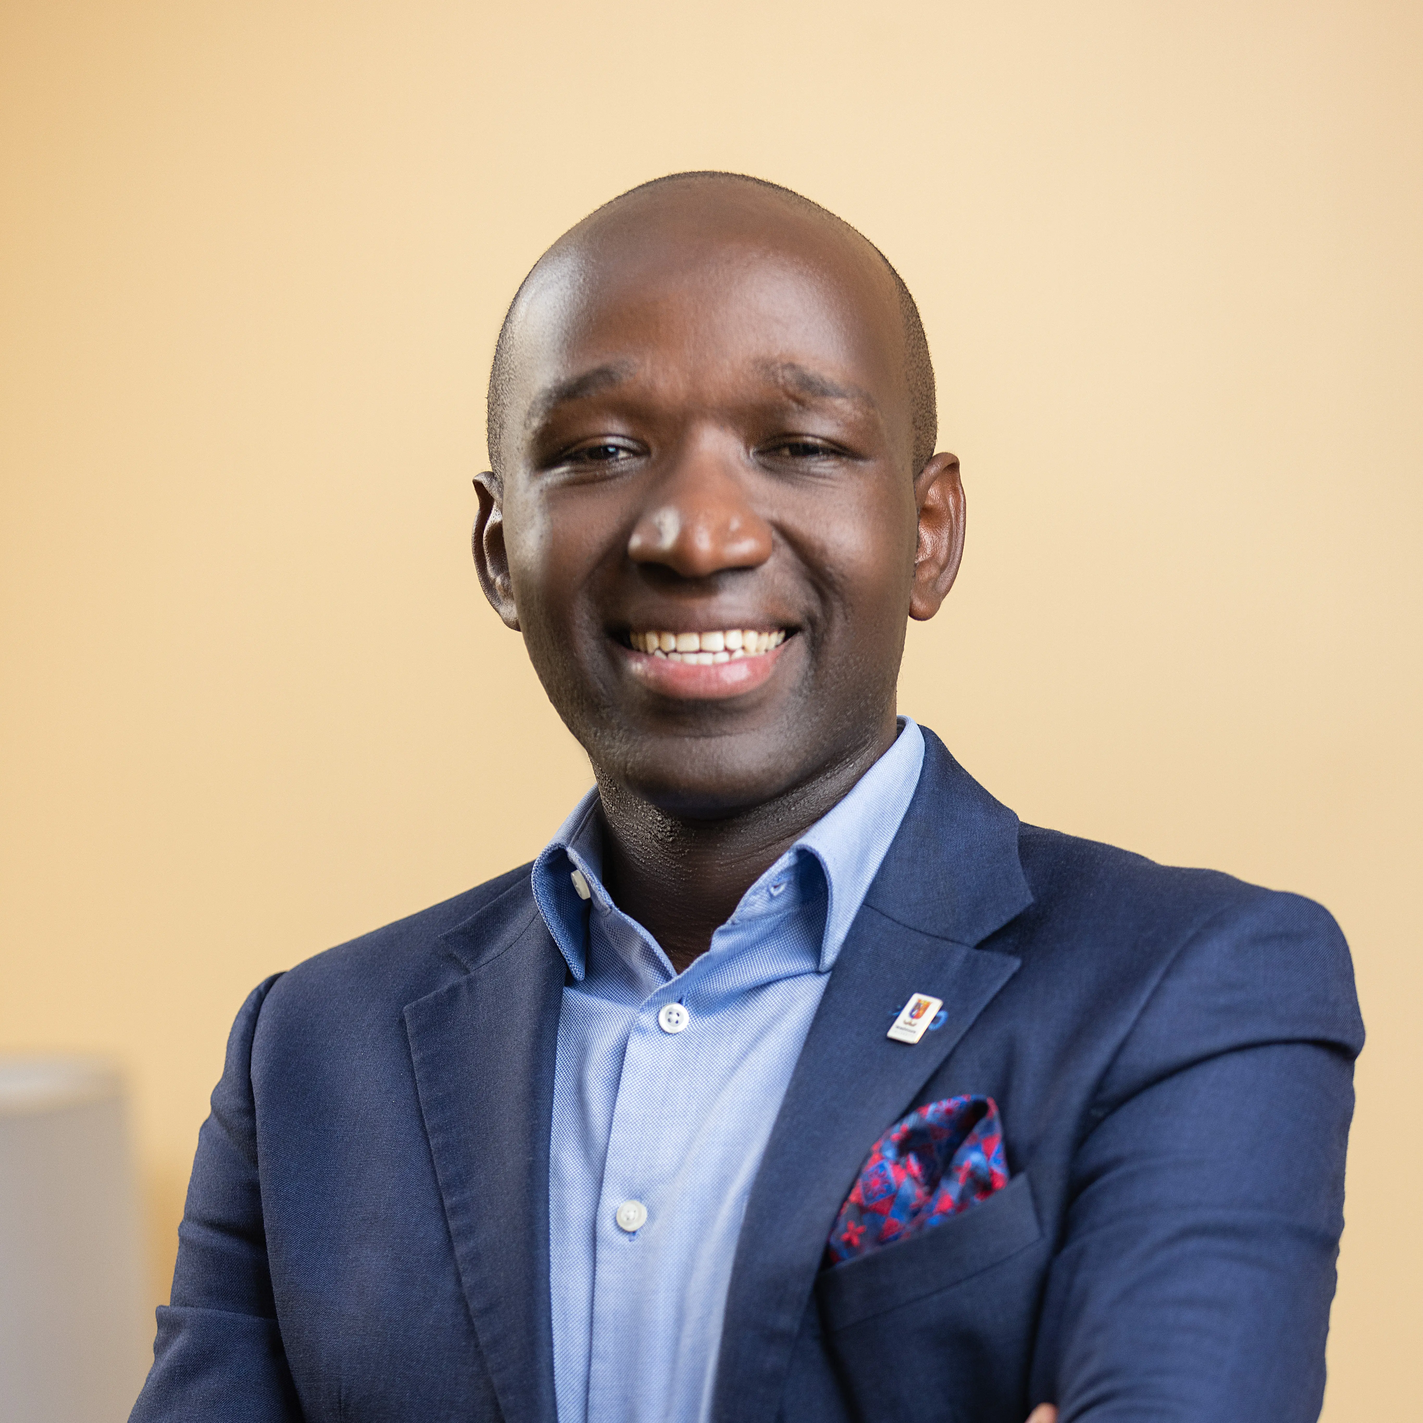
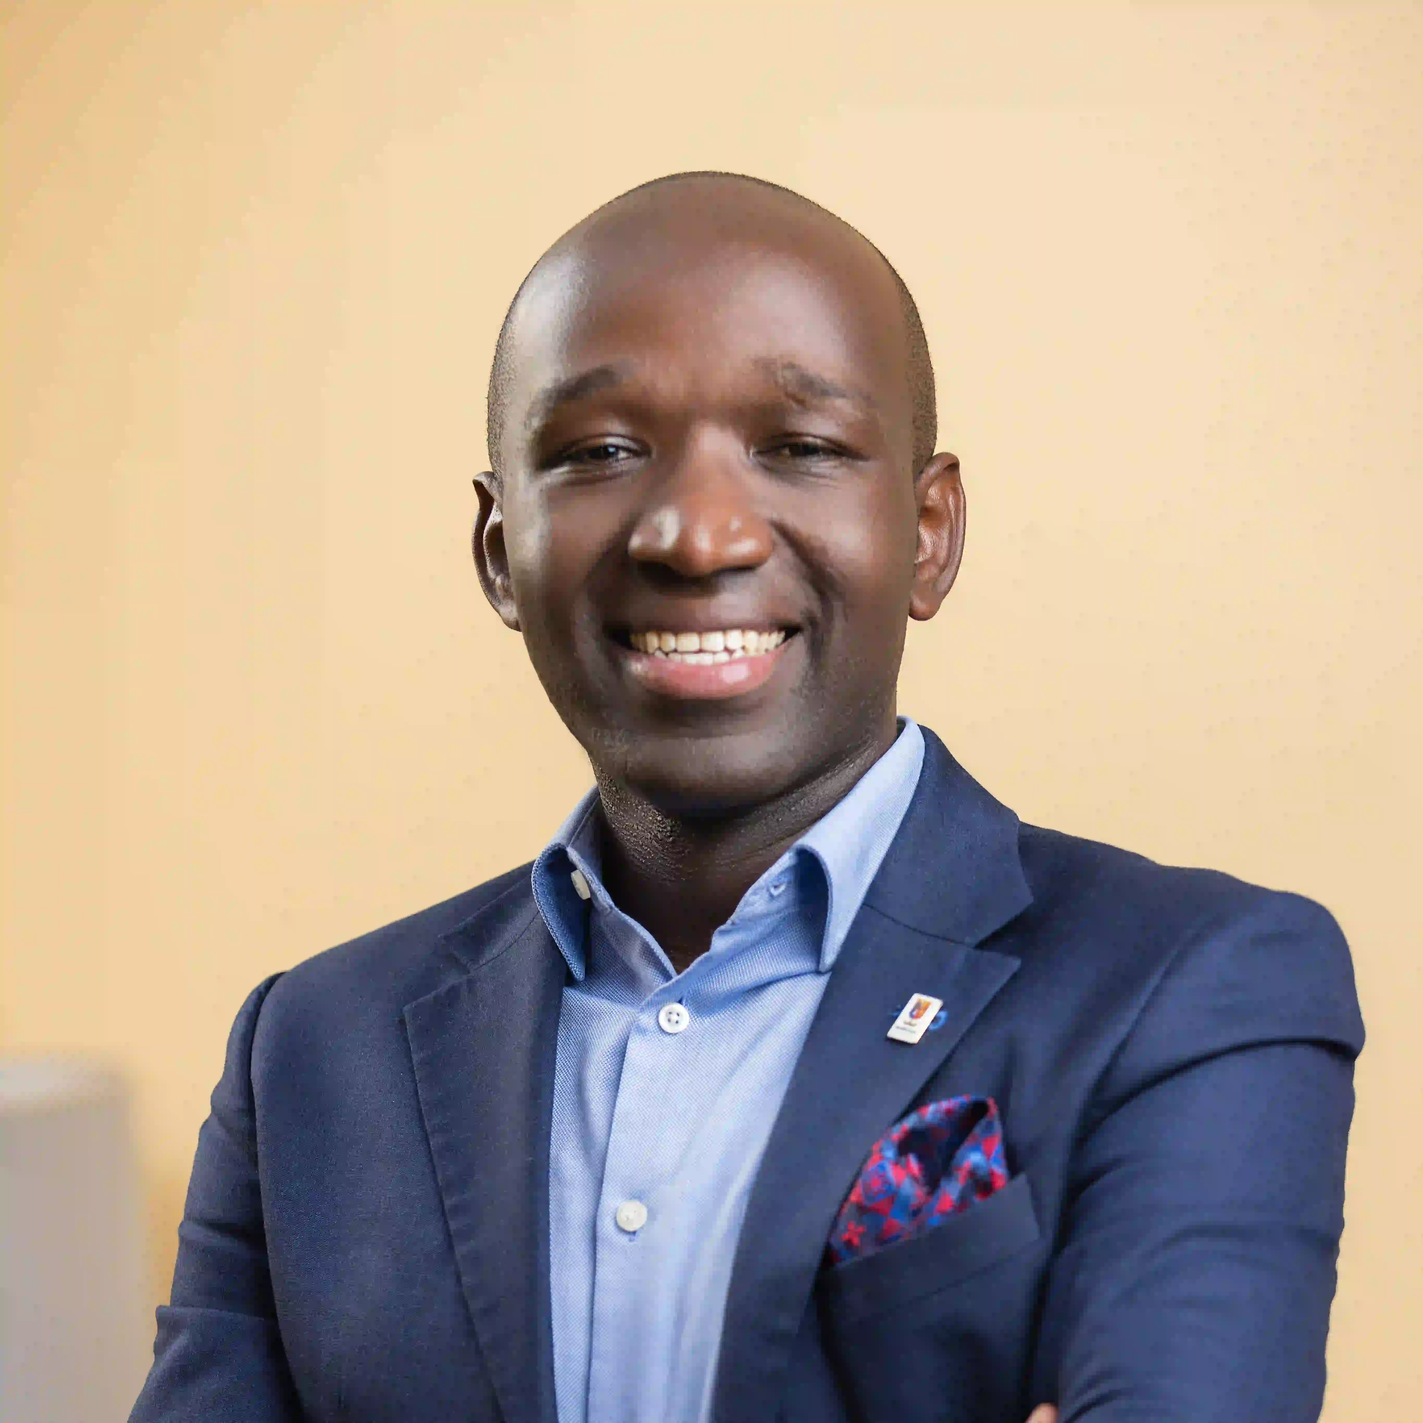
Add speakers

diff --git a/client/src/data/people.ts b/client/src/data/people.ts
@@ -22,7 +22,30 @@ const people = [
 		category: ["moderator"],
 	},
 	{
+		name: "Lyela Mutisya",
+		bio: [
+			"Lyela Mutisya graduated from Lewis University in 2017 with a B.S. in Aviation Administration and a minor in Unmanned Aircraft Systems (UAS). In 2015 during Lyela's junior year in college she took an elective that sparked her love for Uncrewed Aircraft Systems (UAS). As a result of her newfound passion for drones Lyela ended up minoring in UAS.",
+			"Over the years Lyela has been featured in several publications both local and international. She has also participated in several speaking engagements including the 2016 Drone World Expo's Women in Drones Panel.",
+			"In 2021 Lyela joined LifeBank as the Drone Pilot Lead. During her time at LifeBank Lyela learned how to fly Vertical Takeoff & Landing (VTOL) drones. She underwent trainings both in Germany and London. Lyela assisted LifeBank with establishing drone operations for last mile medical delivery in Ethiopia.",
+			"She has vast experience in BVLOS operations from assessing suitable areas for BVLOS operations, preflight planning, risk assessment, flight operations, cargo loading and unloading, communication, and post-flight procedures.",
+			"She is currently on the forefront of using drone technology for last mile medical delivery here in Kenya. As an entrepreneur Lyela's goal is to not only inspire young women and men but to empower them as well through drone education and employment.",
+		],
+		occupation: {
+			position: "Drone Expert",
+			pow: null,
+			image: null,
+		},
+		image: image.people.speakers.lyelaMutisya,
+		contact: {
+			email: "lyela.mutisya@gmail.com",
+			phone: null,
+			socials: null,
+		},
+		category: ["speaker"],
+	},
+	{
 		name: "Michael Zimba",
+		nationality: "Malawi",
 		bio: [
 			"Michael Zimba is the Executive Dean of the Malawi Institute of Technology, Lead of the Center for Artificial Intelligence and STEAM (CAIST) and Associate Professor of Artificial Intelligence and Data Science at the Malawi University of Science and Technology.",
 			"He is an Oxford University Press' Unit Editor for AI in Society Series. He is an EDSAFE AI Catalyst Fellow on Safe AI in Education under the USA's EDSAFE AI Alliance. He is an African Union Commission's Contributing Expert to STISA, and African Union High Level Panel on Emerging Technologies' (APET's) Contributing Expert on AI.",
@@ -42,28 +65,6 @@ const people = [
 		category: ["speaker"],
 	},
 	{
-		name: "Lyela Mutisya",
-		bio: [
-			"Lyela Mutisya graduated from Lewis University in 2017 with a B.S. in Aviation Administration and a minor in Unmanned Aircraft Systems (UAS). In 2015 during Lyela's junior year in college she took an elective that sparked her love for Uncrewed Aircraft Systems (UAS). As a result of her newfound passion for drones Lyela ended up minoring in UAS.",
-			"Over the years Lyela has been featured in several publications both local and international. She has also participated in several speaking engagements including the 2016 Drone World Expo's Women in Drones Panel.",
-			"In 2021 Lyela joined LifeBank as the Drone Pilot Lead. During her time at LifeBank Lyela learned how to fly Vertical Takeoff & Landing (VTOL) drones. She underwent trainings both in Germany and London. Lyela assisted LifeBank with establishing drone operations for last mile medical delivery in Ethiopia.",
-			"She has vast experience in BVLOS operations from assessing suitable areas for BVLOS operations, preflight planning, risk assessment, flight operations, cargo loading and unloading, communication, and post-flight procedures.",
-			"She is currently on the forefront of using drone technology for last mile medical delivery here in Kenya. As an entrepreneur Lyela's goal is to not only inspire young women and men but to empower them as well through drone education and employment.",
-		],
-		occupation: {
-			position: null,
-			pow: null,
-			image: null,
-		},
-		image: image.people.speakers.lyelaMutisya,
-		contact: {
-			email: "lyela.mutisya@gmail.com",
-			phone: null,
-			socials: null,
-		},
-		category: ["speaker"],
-	},
-	{
 		name: "Mwangi Kirubi",
 		bio: [
 			"Mwangi Kirubi aka Mwarv has been telling stories through photography and film for over 20 years. Starting off as an advertising copywriter, Mwarv transitioned into creating photo and video documentaries for clients across the globe.",
@@ -79,23 +80,25 @@ const people = [
 		category: ["speaker"],
 	},
 	{
-		name: "George Ogada",
+		name: "Sahil Patel",
+		nationality: "SA",
 		bio: [
-			"George Ogada specializes in Planning, Program Management, and Providing Crucial Support to startups and innovation initiatives. With a wealth of experience in the FMCG planning space, George has developed the skills needed to navigate the intricate landscape of program management. His skills extend beyond traditional planning, encompassing a keen focus on startup ecosystems and fostering innovation.",
-			"George's expertise lies in developing and implementing strategies that drive both operational efficiency and creative problem-solving. His commitment to the realms of program management, coupled with a passion for people, supporting startups and fostering innovation, positions him as a valuable asset capable of steering projects toward success in dynamic and evolving environments.",
+			"Sahil Patel is a Data Scientist at Matogen Applied Insights - South Africa, where he harnesses artificial intelligence to enhance business operations and efficiency. He earned his Master of Science in Computer Science, with a specialization in Artificial Intelligence, from the University of Nottingham in 2022, graduating with Distinction.",
+			"At Matogen Applied Insights since December 2022, Sahil has been instrumental in automating business processes and developing machine learning models that provide valuable insights across various sectors, including banking, telecommunications, and agriculture.",
+			"As a participant at the AI conference in Nairobi, Sahil aims to share practical approaches to data monetization and discuss AI's role in creating new job opportunities. His work demonstrates a focused commitment to leveraging technology in addressing complex business challenges and contributing positively to the AI field.",
 		],
 		occupation: {
-			position: "Programme Associate",
-			pow: "HiiL Innovation Hub, EA",
-			image: image.companies.hiil,
+			position: "Data Scientist",
+			pow: "Matogen Applied Insights",
+			image: image.companies.matogen,
 		},
-		image: image.people.moderators.georgeOgada,
+		image: image.people.speakers.sahilPatel,
 		contact: {
-			email: "george.ogada@hill.org",
-			phone: ["+254706298677"],
-			socials: [{ label: "linkedin", link: "https://www.linkedin.com/in/georgeogada" }],
+			email: "sahil.patel@ai.matogen.com",
+			phone: null,
+			socials: null,
 		},
-		category: ["speaker", "moderator"],
+		category: ["speaker"],
 	},
 	{
 		name: "Michael Michie",
@@ -146,15 +149,15 @@ const people = [
 			"Out of work he enjoys motorsports and is a rally co-driver in the World Rally Championship and assists in handling communications for the East African Safari Classic Rally. He is the East Africa Regional Director of the Chief of Staff Association, UK the World's representative body of Chiefs of Staff in government, private sector, and military circles.",
 		],
 		occupation: {
-			position: null,
-			pow: null,
+			position: "Regional Director",
+			pow: "Chief of Staff Association",
 			image: null,
 		},
 		image: image.people.moderators.labanCliff,
 		contact: {
 			email: "labancliff@gmail.com",
-			phone: [],
-			socials: [],
+			phone: null,
+			socials: null,
 		},
 		category: ["speaker"],
 	},
@@ -196,8 +199,8 @@ const people = [
 		image: image.people.speakers.benaiahWepundi,
 		contact: {
 			email: "ben@paydhq.com",
-			phone: [],
-			socials: [],
+			phone: null,
+			socials: null,
 		},
 		category: ["speaker"],
 	},
@@ -227,7 +230,8 @@ const people = [
 		category: ["speaker"],
 	},
 	{
-		name: "Nathan Ross",
+		name: "Nathan-Ross Adams",
+		nationality: "SA",
 		bio: [
 			"Nathan-Ross Adams is the Trustworthy AI programme director for Michalsons and helps organizations leverage AI (law)fully. He has presented many times to governing bodies, executive committees, and many other audiences. He has facilitated many public and private workshops and he has written extensively on the topic. He is currently an advisory board member of SAAIA.",
 			"In a world where everyone is suddenly an AI law expert, Nathan-Ross has been quietly working away at AI law and regulation since 2018. He is currently finishing his Doctor of Laws in AI after having completed a Master of Laws in AI in 2021. In 2022 he completed the GIZ AI pilot programme.",
@@ -243,6 +247,93 @@ const people = [
 			phone: null,
 			socials: null,
 		},
+		category: ["speaker"],
+	},
+	{
+		name: "Robinson Muiru",
+		bio: [
+			"Robinson is a Computer Engineer by profession majoring in cryptography, and also a software engineer and innovation researcher. Currently, a Topcoder Ambassador in Africa and West Asia with experience in software development and data science solving NASA software problems under the NASA Tournament Lab partnership with Topcoder. ",
+			"Been a globally ranked competitive programmer for 6+ years, solving global challenges and delivering outstanding outcomes for tech companies. Currently working at NASA SPACE APPS challenges for the global participants.",
+		],
+		occupation: {
+			position: "Co-Director",
+			pow: "CodeVista",
+			image: null,
+		},
+		image: image.people.speakers.robinsonMuiru,
+		contact: {
+			email: "robinsonrokit@protonmail.com",
+			phone: null,
+			socials: [
+				{ label: "linkedin", link: "https://www.linkedin.com/in/robinson-muiru-710399115/" },
+				{ label: "instagram", link: "https://www.instagram.com/robinsonrokit/" },
+				{ label: "twitter", link: "https://twitter.com/RobinsonMuiru1/" },
+			],
+		},
+		category: ["speaker"],
+	},
+	{
+		name: "Bright Gameli Mawudor",
+		bio: [
+			"Dr. Bright Gameli Mawudor is a trailblazing CEO of CyberGuard Africa LTD, Africa's vanguard in Cyber resilience services organization. With a strong commitment to shaping Africa's CyberSecurity landscape, he is the visionary founder of Africahackon, a Cyber Security collective dedicated to nurturing excellence through capacity building and fostering a vibrant community of experts across the continent",
+			"A world-class academic, Dr. Bright earned his PhD in IT Convergence and Application Engineering with a specialization in Information Security from Pukyong National University, South Korea. His outstanding professionalism has earned him prestigious positions on Advisory Boards, including EC-Council Global Advisory Board Member for CTIA, Cybersafe Foundation, Moringa School, and AfCAA – the African council for accreditation and accountability.",
+			"With over a decade of experience in the Cyber Security industry, Dr. Mawudor possesses profound expertise in Cyber Security Strategy, Resilience, and system penetration testing. A seasoned speaker, he has captivated audiences at more than 315 Cyber Security conferences, and his wisdom has been shared with students at various universities and through contributions to prominent Cyber Security publications.",
+			"Recognition has been no stranger to him, as he was honored by Tribe of Hackers: Blue Team 2020 and acknowledged among the Top 40 Under 40 young entrepreneurs in Kenya for his exceptional achievements.",
+			"Having worked with esteemed organizations such as Dimension Data/NTT, Cellulant, and Ushahidi, Dr. Mawudor has conducted numerous evaluations and selections of Cyber Security tools, successfully implementing cutting-edge IT security systems to safeguard critical business environments and mitigate risks.",
+			"A technically skilled expert, especially within the Cyber Security space, Dr. Bright is dedicated, collaborative, and exhibits excellent leadership qualities. His indomitable spirit drives him to shape a more secure digital future for Africa and beyond.",
+		],
+		occupation: {
+			position: "CEO",
+			pow: "CyberGuard Africa Ltd",
+			image: null,
+		},
+		image: image.people.speakers.brightGameli,
+		contact: {
+			email: "bright.gameli@africahackon.com",
+			phone: null,
+			socials: null,
+		},
+		category: ["speaker"],
+	},
+	{
+		name: "Koyundi Bryan",
+		bio: [
+			"In the dynamic realm of AI, one name stands out - Koyundi Bryan, a distinguished AI researcher, passionate ethicist, and the visionary founder of a groundbreaking AI startup. With over a decade of experience, Koyundi is an influential force, contributing to the field of AI, particularly in the fascinating domain of computer vision.",
+			"As an AI researcher, Koyundi has left an indelible mark on the landscape of artificial intelligence. His journey is marked by groundbreaking contributions in the realms of natural language processing, computer vision, and machine learning. He has delved deep into the intricate web of AI algorithms and models, advancing the boundaries of what AI can achieve. His impressive portfolio includes numerous papers published in leading academic journals, each offering innovative solutions to complex problems. His unrelenting commitment to pushing the frontiers of AI has not gone unnoticed, as he's garnered several prestigious awards and accolades for his pioneering work.",
+			"Koyundi is not merely a researcher but also a hands-on practitioner. His expertise has been instrumental in the private and public sectors, where he's led teams of data scientists, engineers, and analysts. Together, they've designed and implemented AI solutions that have transformed industries. From enhancing efficiency and productivity to elevating customer satisfaction, Koyundi's practical insights into AI applications have sparked remarkable progress.",
+			"Ethics are at the heart of Koyundi's AI journey. He's a tireless advocate for the ethical and responsible use of AI. His thought leadership has resonated across international conferences and events, where he has delivered impassioned talks, shedding light on the potential risks and benefits of AI. Koyundi emphasizes the imperative of a collaborative approach to AI development and deployment, acknowledging that the power of AI must be wielded responsibly to avoid harm and ensure fairness.",
+			"What sets Koyundi apart is his multifaceted role as a policy maker. He's been pivotal in shaping the regulatory framework for AI in Kenya, collaborating with governments and international organizations to craft policies and guidelines. These guidelines are not merely bureaucratic but reflect Koyundi's deeply held belief in ethical and responsible AI. They strike a balance between fostering innovation and progress and ensuring that AI is harnessed for the greater good of society. But Koyundi's journey doesn't stop here. He's a founder, an innovator, and a trailblazer. He's brought all his expertise, insights, and passion together to establish an AI startup. This startup is not just another player in the AI landscape; it's a visionary endeavor, driven by Koyundi's commitment to making AI work for the greater good.",
+			"Koyundi Bryan is not just an AI expert; he's a visionary who combines technical prowess with a profound understanding of the social, economic, and ethical implications of AI. His mission is clear: to ensure that AI benefits everyone. He believes in the transformative power of AI, and through his research, advocacy, and entrepreneurship, he's paving the way for an AI future that is both brilliant and benevolent.",
+		],
+		occupation: {
+			position: "Founder",
+			pow: "Cybertech Labs & Systems",
+			image: image.companies.aiStartup,
+		},
+		image: image.people.speakers.koyundiBryan,
+		contact: {
+			email: "koyundibryan@gmail.com",
+			phone: null,
+			socials: null,
+		},
+		category: ["speaker"],
+	},
+	{
+		name: "Tawanda Chihambakwe",
+		bio: [
+			"Tawanda is an award-winning technology entrepreneur and Founder of PRECISION AERIAL GROUP, a drone service, consultancy, and training group of companies based in Zimbabwe and operating across Southern Africa.",
+			"Tawanda is a Certified Drone Pilot Instructor with Multirotor, Fixed Wing and BVLOS ratings and a Drone Systems Integration Consultant. Through Precision Aerial Group, he successfully secured the country license for Zimbabwe Flying Labs, the first drone technology hub in Zimbabwe, and the local country chapter of the global Flying Labs Network.",
+			"He is also the Director of Precision Drone Training, Africa's first integrated Professional Pilot training school that specializes in delivering Advanced Industry Specific Drone Training courses Eg. Drones for Agriculture, Wildlife Management, Medical Drone Deliveries, and Disaster Risk Reduction.",
+			"Tawanda is also the Founder of the Zimbabwe International Drone Conference, southern Africa's premier gathering of Drone Professionals, the Civil Aviation Authority, and Public and Private sector key stakeholders.",
+			"As an International Speaker on Drone Technology and STEM education, Tawanda has spoken at over 35 speaking events and conferences in Kenya, Nigeria, South Africa, the USA, Zambia, and Zimbabwe.",
+		],
+		occupation: {
+			position: "Managing Director & Chief Drone Pilot",
+			pow: "Zimbabwe Flying Labs",
+			image: null,
+		},
+		image: image.people.speakers.tawandaChihambakwe,
+		contact: null,
 		category: ["speaker"],
 	},
 ];

diff --git a/client/src/assets/images/people/speakers/index.ts b/client/src/assets/images/people/speakers/index.ts
@@ -7,6 +7,11 @@ import violetOchieng from "./speaker-6.webp";
 import lyelaMutisya from "./speaker-7.webp";
 import nathanRoss from "./speaker-8.webp";
 import mwangiKirubi from "./speaker-9.webp";
+import sahilPatel from "./speaker-10.webp";
+import robinsonMuiru from "./speaker-11.webp";
+import brightGameli from "./speaker-12.webp";
+import koyundiBryan from "./speaker-13.webp";
+import tawandaChihambakwe from "./speaker-14.webp";
 
 const moderators = {
 	michaelZimba,
@@ -18,6 +23,11 @@ const moderators = {
 	lyelaMutisya,
 	nathanRoss,
 	mwangiKirubi,
+	sahilPatel,
+	robinsonMuiru,
+	brightGameli,
+	koyundiBryan,
+	tawandaChihambakwe,
 };
 
 export default moderators;

diff --git a/client/src/components/card/speaker/Listing.tsx b/client/src/components/card/speaker/Listing.tsx
@@ -36,10 +36,17 @@ export default function Listing({ data }: { data: typeSpeaker }) {
 				<Anchor className={classes.title} component={Link} to={`${hook.useLinkify(data.name)}`}>
 					{data.name}
 				</Anchor>
-				<Text fz={"xs"} fw={500}>
-					{data.occupation.position}
-					{data.occupation.pow && `, ${data.occupation.pow}`}
-				</Text>
+				<Stack gap={0}>
+					<Text fz={"sm"} fw={"bold"}>
+						{data.occupation.position}
+					</Text>
+					{data.occupation.pow && (
+						<Text fz={"xs"} fw={500}>
+							{data.occupation.pow}
+							{data.nationality && `, ${data.nationality}`}
+						</Text>
+					)}
+				</Stack>
 			</Stack>
 		</Card>
 	);

diff --git a/client/src/assets/images/partners/media/index.ts b/client/src/assets/images/partners/media/index.ts
@@ -1,8 +1,8 @@
-import image1 from "./media-1.png";
-import image2 from "./media-2.png";
-import image3 from "./media-3.png";
-import image4 from "./media-4.png";
-import image5 from "./media-5.png";
+import image1 from "./media-1.webp";
+import image2 from "./media-2.webp";
+import image3 from "./media-3.webp";
+import image4 from "./media-4.webp";
+import image5 from "./media-5.webp";
 import image6 from "./media-6.png";
 import image7 from "./media-7.png";
 import image8 from "./media-8.jpg";

diff --git a/client/src/assets/images/companies/index.ts b/client/src/assets/images/companies/index.ts
@@ -5,6 +5,9 @@ import everseTech from "./logo-4.webp";
 import pathawaysTech from "./logo-5.webp";
 import payd from "./logo-6.jpeg";
 import geoid from "./logo-7.webp";
+import matogen from "./logo-8.png";
+import topCoder from "./logo-9.svg";
+import aiStartup from "./logo-10.jpg";
 
 const companies = {
 	dotsavvy,
@@ -14,6 +17,9 @@ const companies = {
 	pathawaysTech,
 	payd,
 	geoid,
+	matogen,
+	topCoder,
+	aiStartup,
 };
 
 export default companies;

diff --git a/client/src/routes/speakers/index.tsx b/client/src/routes/speakers/index.tsx
@@ -24,7 +24,7 @@ export default function Speakers() {
 						</Title>
 						<Text>Our best Speakers will be added soon</Text>
 					</Stack> */}
-					<Grid>
+					<Grid justify="center">
 						{data.people.map(person => (
 							<Grid.Col key={person.name} span={{ base: 12, xs: 6, sm: 4, md: 3 }}>
 								<Component.Card.Speaker.Listing data={person} />

diff --git a/client/src/routes/speakers/speaker.tsx b/client/src/routes/speakers/speaker.tsx
@@ -98,7 +98,9 @@ export default function Speaker() {
 								<Divider />
 								<Stack gap={"xs"}>
 									{personDetails?.bio.map(item => (
-										<Text key={item}>{item}</Text>
+										<Text key={item} fz={"sm"}>
+											{item}
+										</Text>
 									))}
 								</Stack>
 							</Stack>

diff --git a/client/src/components/card/speaker/Listing.module.scss b/client/src/components/card/speaker/Listing.module.scss
@@ -31,7 +31,8 @@
 .title {
 	color: light-dark(var(--mantine-color-sec-6), var(--mantine-color-sec-6));
 	font-weight: bold;
-	font-size: var(--mantine-font-size-xl);
+	font-size: var(--mantine-font-size-md);
+	text-transform: uppercase;
 }
 
 .imageContainer {

diff --git a/client/src/routes/speakers/Speaker.module.scss b/client/src/routes/speakers/Speaker.module.scss
@@ -16,6 +16,10 @@
 	border-radius: var(--mantine-radius-md);
 	padding: var(--mantine-spacing-xs);
 	background-color: light-dark(var(--mantine-color-white));
+	max-height: 96px;
+	max-width: 160px;
+	width: auto;
+	margin: auto;
 }
 
 .link {

diff --git a/client/src/types/people.ts b/client/src/types/people.ts
@@ -1,5 +1,6 @@
 export interface typeSpeaker {
 	name: string;
+	nationality?: string;
 	bio: string[];
 	occupation: { position: string; pow: string; image: string };
 	image: string;
